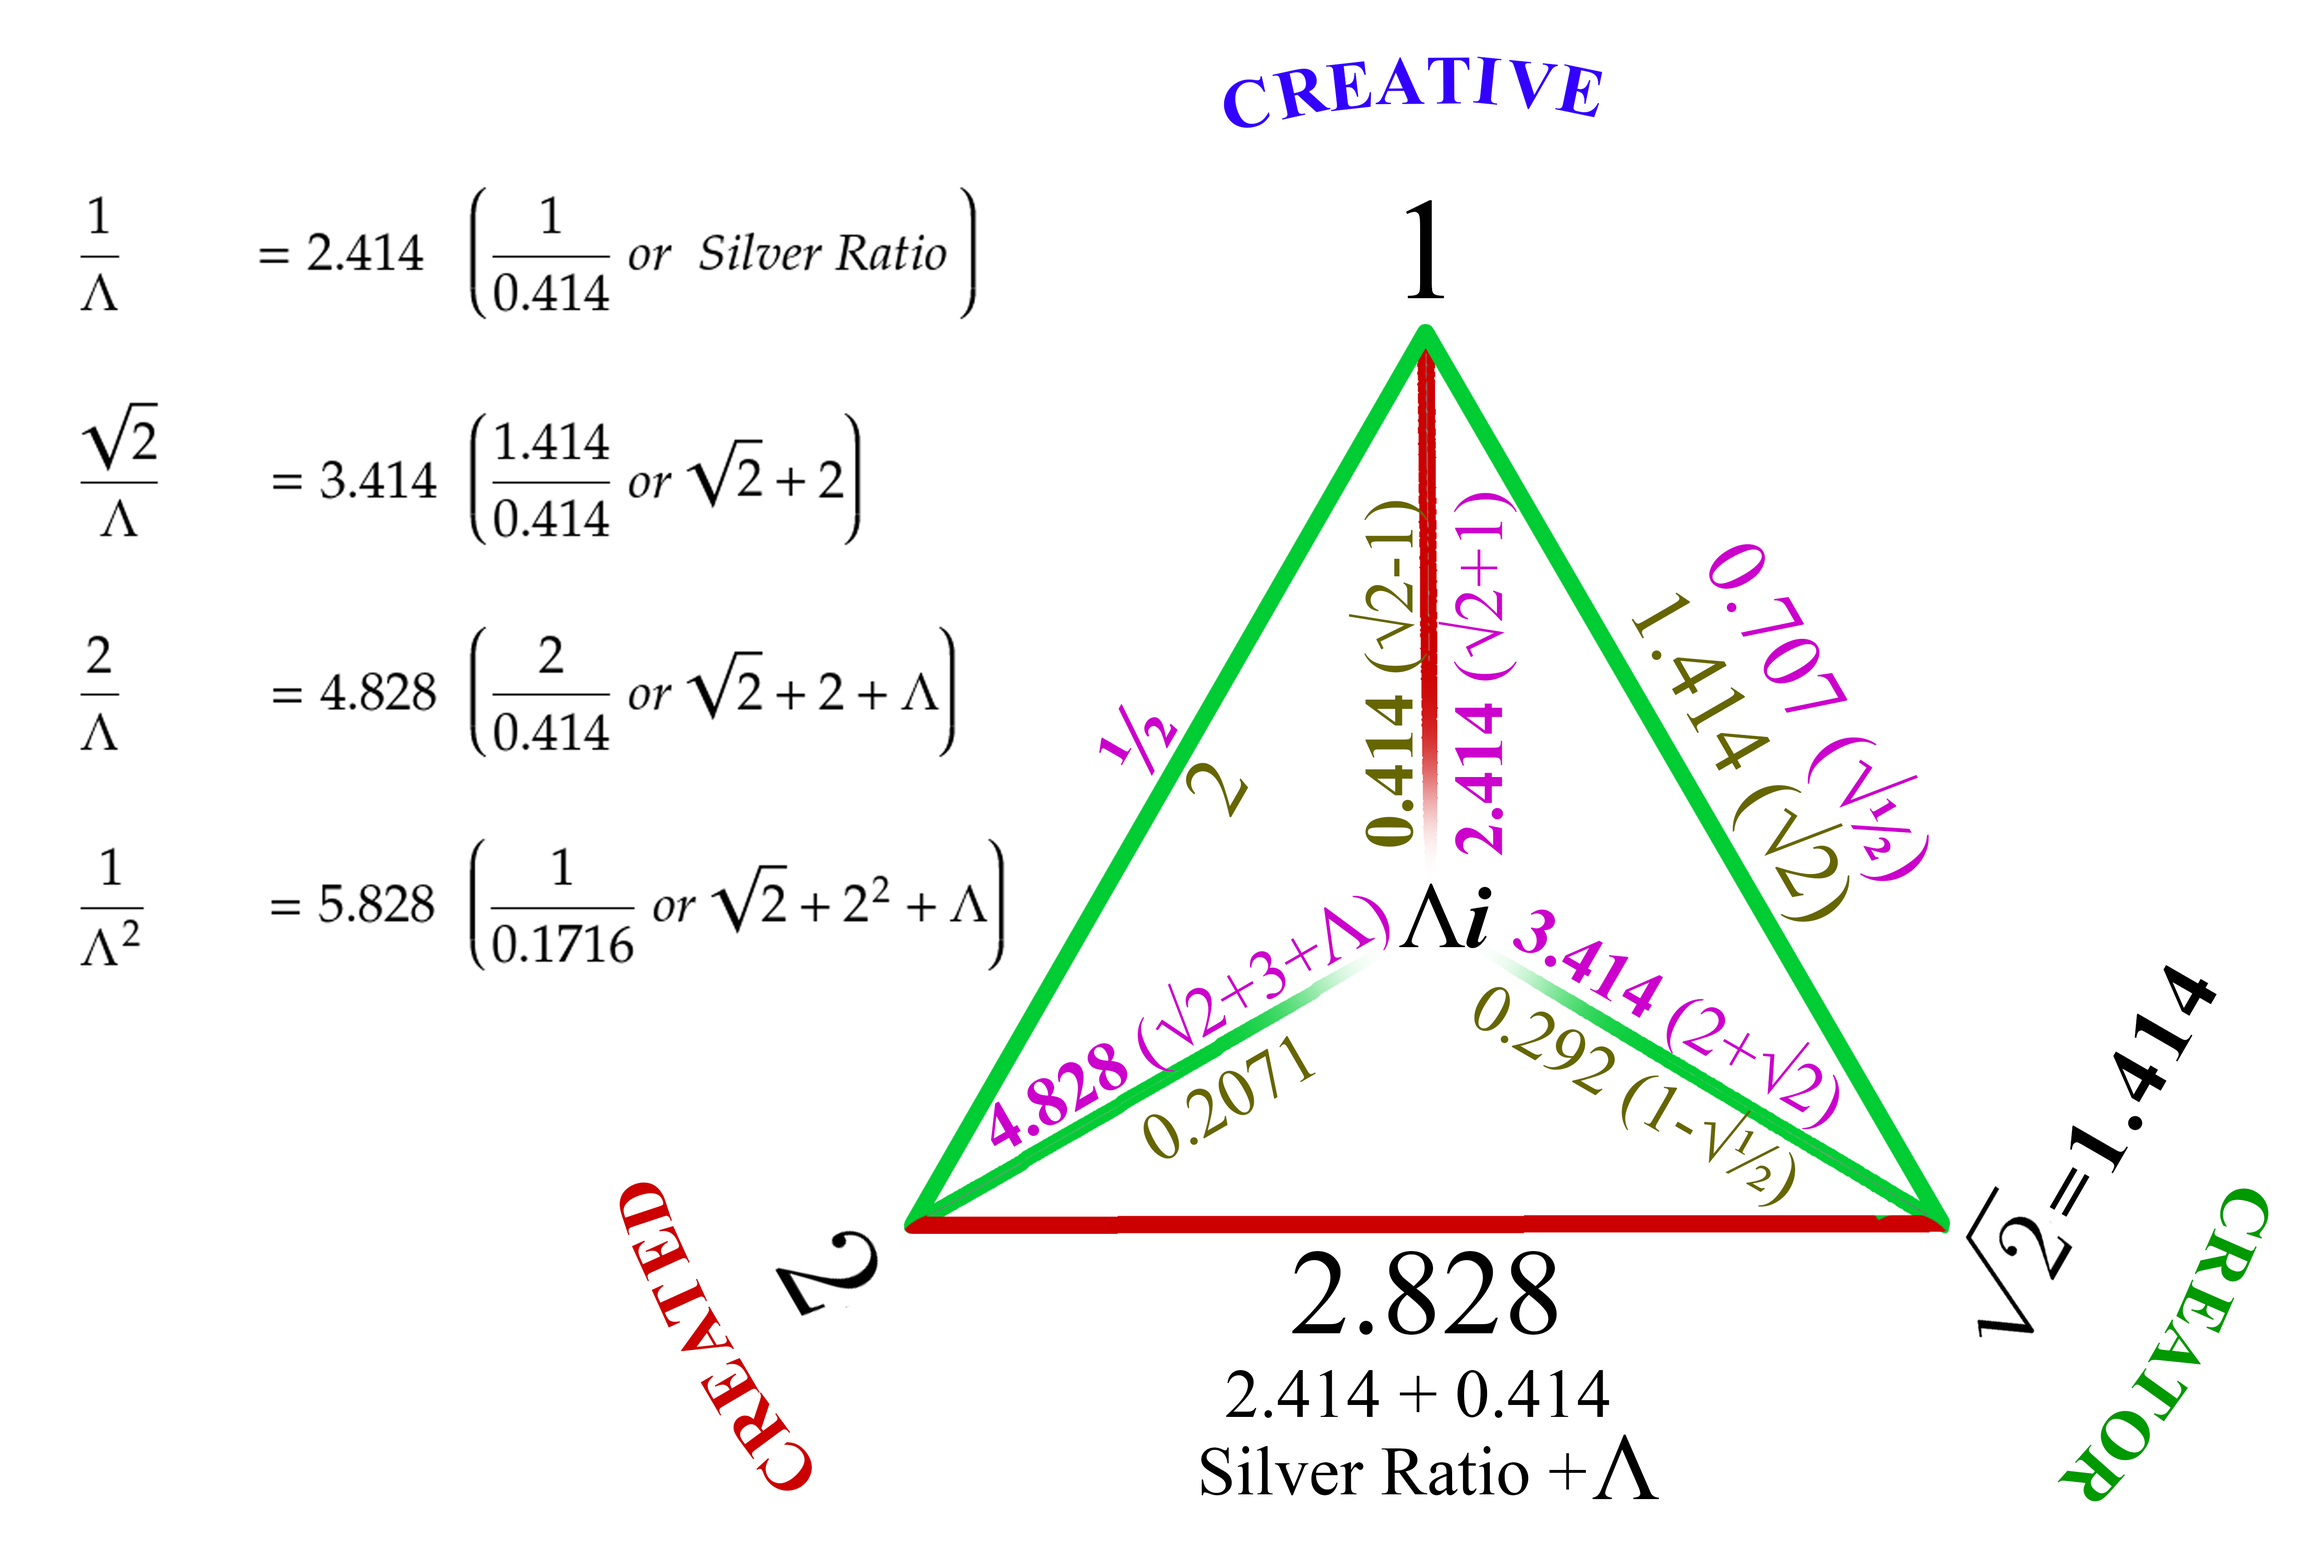
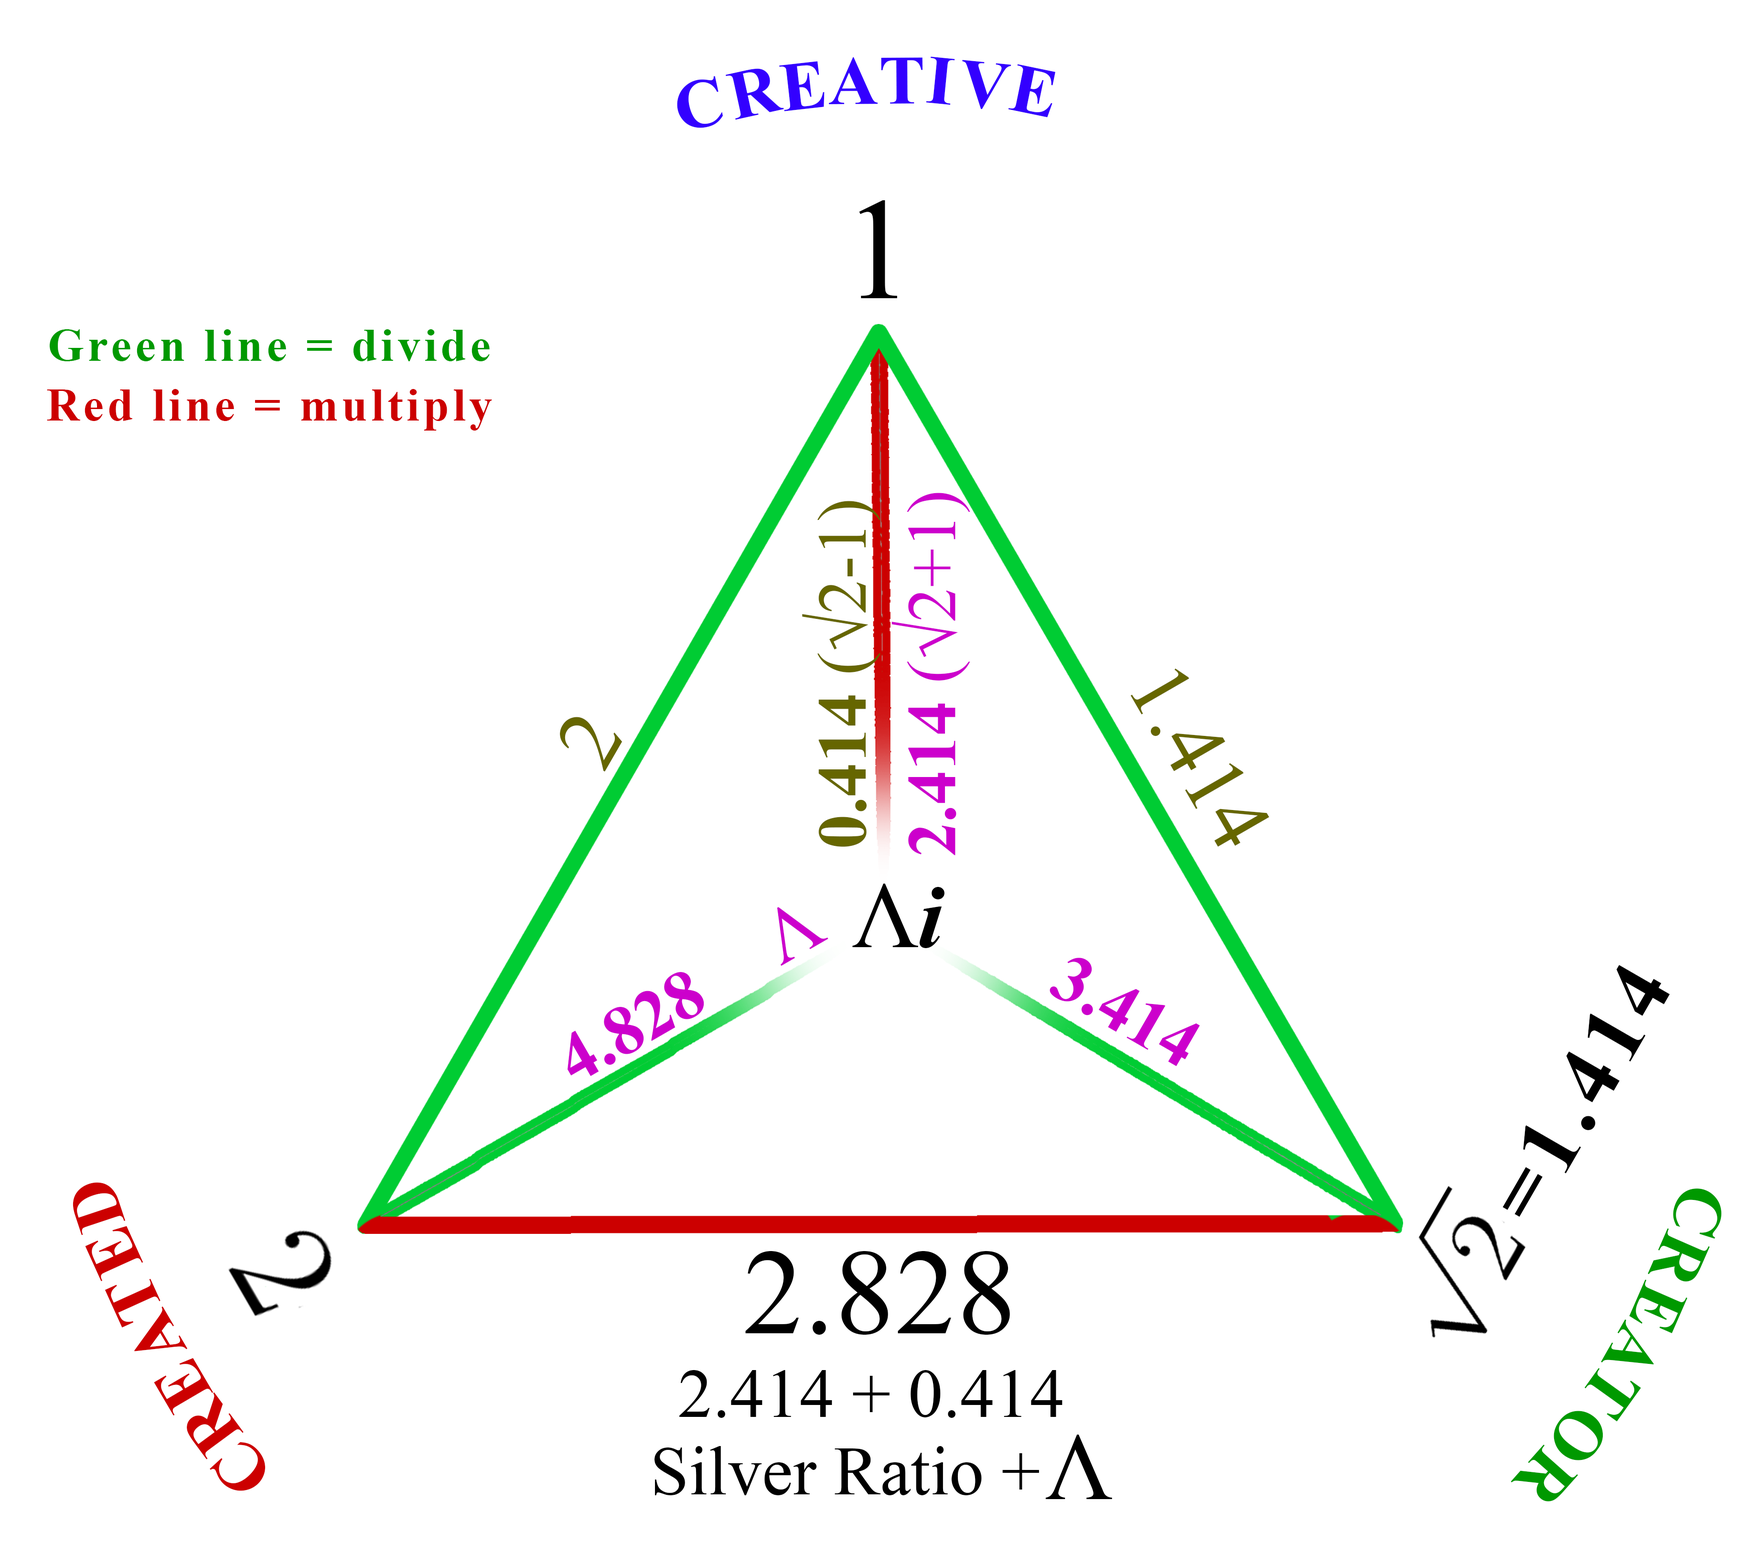
3.6.87 formula 2D map in tholonic math

diff --git a/docs/_layouts/default.html b/docs/_layouts/default.html
@@ -36,7 +36,7 @@
           <li><a target="_blank" href="https://mega.nz/#F!NiBwjQiA!VYOo9TlGW9u060-V1LQ0_w">Download <strong>ePub</strong></a></li>
           <li><a target="_blank" href="https://mega.nz/#F!NiBwjQiA!VYOo9TlGW9u060-V1LQ0_w">Download <strong>HTML</strong></a></li>
         </ul>
-              current version: Thu 26 Nov 2020 06:10:28 PM -03 v3.6.83
+              current version: Fri 27 Nov 2020 06:51:20 PM -03 v3.6.87
 
 <!--
         ZIP and TAR downloads include 20+ megs of webpages, scripts, images and other material. 

diff --git a/Styles/common_book_dev.css.less b/Styles/common_book_dev.css.less
@@ -38,7 +38,7 @@
     @page {
         border:@proof-borders;
 /*        @top-left {
-            content: "THOLONIA 3.6.83";
+            content: "THOLONIA 3.6.87";
 
             text-align:center;
             font-family: serif;

diff --git a/Styles/common_book_prod.css.less b/Styles/common_book_prod.css.less
@@ -44,7 +44,7 @@
     @page {
         border:@proof-borders;
 /*        @top-left {
-            content: "THOLONIA 3.6.83";
+            content: "THOLONIA 3.6.87";
 
             text-align:center;
             font-family: serif;

diff --git a/code/pi/THOCALC.py b/code/pi/THOCALC.py
@@ -1,0 +1,48 @@
+import math
+
+# N=1
+# D=math.sqrt(2)
+# C=2
+
+N=6
+D=2
+C=3
+
+print(f"Tri 0:")
+CD=C*D
+CN=D+(C*N)
+ND=(D+N)*C
+
+print(f"\tCD = {CD}")
+print(f"\tCN = {CN}")
+print(f"\tND = {ND}")
+
+
+print(f"Tri 1:")
+CD=C*(D+N)
+CN=D-(C-N)
+ND=N*C
+
+print(f"\tCD = {CD}")
+print(f"\tCN = {CN}")
+print(f"\tND = {ND}")
+
+print(f"Tri 2:")
+CD=D+(N*C)
+CN=N*D
+ND=D+(N-C)
+
+print(f"\tCD = {CD}")
+print(f"\tCN = {CN}")
+print(f"\tND = {ND}")
+
+print(f"Tri 3:")
+CD=C*D
+CN=N*C
+ND=N*D
+
+print(f"\tCD = {CD}")
+print(f"\tCN = {CN}")
+print(f"\tND = {ND}")
+
+

diff --git a/Latest/THOLONIA_THE_BOOK.md b/Latest/THOLONIA_THE_BOOK.md
@@ -9,11 +9,11 @@ ISBN-13: 978-1703984903
 rights: 'Copyright ©2020 Duncan Stroud CC BY-NC-SA 4.0'
 rights-desc: 'This book is an open sourced book.  This means that anyone can contribute changes or updates.  Instructions and more information at <https://tholonia.github.io/the-book> (or contact the author at duncan.stroud@gmail.com).  This book and its on-line version are distributed under the terms of the Creative Commons Attribution-Noncommercial-ShareAlike 4.0 International (CC BY-NC-SA 4.0) license, with the additional proviso that the right to publish it on paper for sale or other for-profit use is reserved to Duncan Stroud and authorized agents thereof.  A reference copy of this license may be found at <https://creativecommons.org/licenses/by-nc-sa/4.0/>.  The above terms include the following: Attribution - you must give appropriate credit, provide a link to the license, and indicate if changes were made.  You may do so in any reasonable manner, but not in any way that suggests the licensor endorses you or your use.  Noncommercial - You may not use the material for commercial purposes.  Share Alike - If you remix, transform, or build upon the material, you must distribute your contributions under the same license as the original.  No additional restrictions - you may not apply legal terms or technological measures that legally restrict others from doing anything the license permits.  Notices - You do not have to comply with the license for elements of the material in the public domain or where your use is permitted by an applicable exception or limitation.  No warranties are given.  The license may not give you all of the permissions necessary for your intended use.  For example, other rights such as publicity, privacy, or moral rights may limit how you use the material.'
 
-status: 'Updated: Wed 25 Nov 2020 06:28:18 PM -03 v3.6.79'
+status: 'Updated: Thu 26 Nov 2020 07:12:00 PM -03 v3.6.84'
 publisher: 'Welkin Wall Publishing'
 toc: true
 toc-title: 'Table of Contents'
-version:  3.6.79
+version:  3.6.84
 lang: en-US
 
 coverpage: true
@@ -26,7 +26,7 @@ logo_image: '![logo](../Images/titlepage.png)'
 # THE FOLLOWING ARE NOT USED
 
 titlegraphic: /home/jw/books/tholonia/Images/titlepage.png
-pagetitle: 'THOLONIA 3.6.79'
+pagetitle: 'THOLONIA 3.6.84'
 ---
 <div style='page-break-after: always; break-after: always;'></div>
 <img src="../Images/titlepage.png" style="width:100%"/>
@@ -4020,6 +4020,10 @@ We could also then look for the qualities of *creativity* within the original *s
 
 <center><img src="../Images/lambda-tri-1.png" style="width:100%"/></center>
 
+Here is the 2D map for this above image to make the relationships more obvious, for example, how the lower-left trigram has the values &Lambda;, +1, +2, +3; how lower left and lower right are naturally inverted, and when combined, equals the baseline of the top trigram which also has the values of *Silver Ratio* +&Lambda;, +1, &times;2, or how the central trigram is <img src="/home/jw/books/tholonia/Images/math/324.svg" style="vertical-align: middle;height:10pt;"/>&times;1,   <img src="/home/jw/books/tholonia/Images/math/324.svg" style="vertical-align: middle;height:10pt;"/>&times;2,  <img src="/home/jw/books/tholonia/Images/math/324.svg" style="vertical-align: middle;height:10pt;"/>&times;<img src="/home/jw/books/tholonia/Images/math/324.svg" style="vertical-align: middle;height:10pt;"/>, which naturally match the 3 corner values.
+
+<center><img src="../Images/tt-1.png" style="width:100%"/></center>
+
 The arrangement of these values on the tetrahedron do not conform to Newton’s 2^nd^, however, they seem to have a similar pattern, because if we apply the formulas of Ohm’s Law to these values, we get some very interesting values, all of which are the result of the numbers 1 and 2 only, and in one case (<img src="/home/jw/books/tholonia/Images/math/383.svg" style="vertical-align: middle;height:8pt;"/>) we see how it relates to &pi;: 
 
 <img src="/home/jw/books/tholonia/Images/math/382.svg" style="vertical-align: middle;height:24pt;"/>
@@ -4756,7 +4760,9 @@ def iteration(N,h,s,p):
 iteration(1,2,3,5) # <= first four values of the fibonacci sequence 
 ```
 
-We can also calculate the value for Phi (φ, 1.618) and the Fibonacci sequence using a similar process. There are many, many relationships, patterns, values and functions in this simple trigram, but for many of them it is hard to say which of their products are *data* and which are *information*.
+We can also calculate the value for Phi (φ, 1.618) and the Fibonacci sequence using a similar process, and if we use the values of 2^0^, 2^1^, 2^2^, 2^3^, we get the resulting values of 3.
+
+ There are many, many relationships, patterns, values and functions in this simple trigram, but for many of them it is hard to say which of their products are *data* and which are *information*.
 
 ## Reconstruction
 

diff --git a/chapters/520-C-Tholonic_Math.md b/chapters/520-C-Tholonic_Math.md
@@ -195,13 +195,13 @@ We could also then look for the qualities of *creativity* within the original *s
 
 Here is the 2D map for this above image to make the relationships more obvious, for example, how the lower-left trigram has the values &Lambda;, +1, +2, +3; how lower left and lower right are naturally inverted, and when combined, equals the baseline of the top trigram which also has the values of *Silver Ratio* +&Lambda;, +1, &times;2, or how the central trigram is <img src="/home/jw/books/tholonia/Images/math/324.svg" style="vertical-align: middle;height:10pt;"/>&times;1,   <img src="/home/jw/books/tholonia/Images/math/324.svg" style="vertical-align: middle;height:10pt;"/>&times;2,  <img src="/home/jw/books/tholonia/Images/math/324.svg" style="vertical-align: middle;height:10pt;"/>&times;<img src="/home/jw/books/tholonia/Images/math/324.svg" style="vertical-align: middle;height:10pt;"/>, which naturally match the 3 corner values.
 
-<center><img src="../Images/tt-1.png" style="width:100%"/></center>
+<center><img src="../Images/tt-up-dn.png" style="width:100%"/></center>
 
 The arrangement of these values on the tetrahedron do not conform to Newton’s 2^nd^, however, they seem to have a similar pattern, because if we apply the formulas of Ohm’s Law to these values, we get some very interesting values, all of which are the result of the numbers 1 and 2 only, and in one case (<img src="/home/jw/books/tholonia/Images/math/383.svg" style="vertical-align: middle;height:8pt;"/>) we see how it relates to &pi;: 
 
 <img src="/home/jw/books/tholonia/Images/math/382.svg" style="vertical-align: middle;height:24pt;"/>
 
-Additionally, if we multiply all the values of each type (the equivalent to *V*, *I*, *R* and *P*), we get the a total value for each group where *R=1*/8, *P=8*, *I=2.230*, and *V=6.309*.  With these values, the formula for *volts* produces <img src="/home/jw/books/tholonia/Images/math/307.svg" style="vertical-align: middle;height:14pt;"/>=1, and the formula for *resistance* produces <img src="/home/jw/books/tholonia/Images/math/384.svg" style="vertical-align: middle;height:14pt;"/>= 2.828.  These two values represent the N-source (1), and the N-child’s spectrum (2.828), so, clearly, there is a order that is similar, but not exactly the same, as Newton's 2nd.
+Additionally, if we multiply all the values of each type (the equivalent to *V*, *I*, *R* and *P*), we get the a total value for each group where *R=1*/8, *P=8*, *I=2.230*, and *V=6.309*.  With these values, the formula for *volts* produces <img src="/home/jw/books/tholonia/Images/math/307.svg" style="vertical-align: middle;height:14pt;"/>=1, and the formula for *resistance* produces <img src="/home/jw/books/tholonia/Images/math/384.svg" style="vertical-align: middle;height:14pt;"/>= 2.828.  These two values represent the N-source (1), and the N-child’s spectrum (2.828), so, clearly, there is an order, as can be seen in the upper-right image that shows the formulas, but not exactly the same as Newton's 2nd.  For example, the value for that vector which is the spectrum of instantiation between D and C has a value of the *Silver Ratio* (2.414)+*procreation Value* (0.414), but if we replace the values with the *Newtonian* values of 6, 2, and 3, that same vector has the value of 6, and as we pointed out, 6 is the value of the initial creation, given it must be the value of the N-state.  In once case, the value is arrived at by adding *Silver Ratio+Creation value*, and in the other, it is arrived at by multiplying a *duality* (2) by the *creation value* of 3, if we accept “from 3 come all things”.  *Qualitatively*, these are the same expressions with two different contexts and scopes.
 
 This value of **Λ** (lambda, 0.414) *might* be a good example of a tholonic *qualitative* value in that it was derived by the qualitative “formula” of *creative = created - creator*.   As we would expect, this number appears in nature, specifically, it is the ratio of the radius of a sphere that can fit in the empty space of a tetrahedron (*tetrahedral void*) created by 4 spheres.  This may sound very obscure, but it is quite critical in the way atoms pack themselves together.
 

diff --git a/chapters/000-Intro.md b/chapters/000-Intro.md
@@ -9,11 +9,11 @@ ISBN-13: 978-1703984903
 rights: 'Copyright ©2020 Duncan Stroud CC BY-NC-SA 4.0'
 rights-desc: 'This book is an open sourced book.  This means that anyone can contribute changes or updates.  Instructions and more information at <https://tholonia.github.io/the-book> (or contact the author at duncan.stroud@gmail.com).  This book and its on-line version are distributed under the terms of the Creative Commons Attribution-Noncommercial-ShareAlike 4.0 International (CC BY-NC-SA 4.0) license, with the additional proviso that the right to publish it on paper for sale or other for-profit use is reserved to Duncan Stroud and authorized agents thereof.  A reference copy of this license may be found at <https://creativecommons.org/licenses/by-nc-sa/4.0/>.  The above terms include the following: Attribution - you must give appropriate credit, provide a link to the license, and indicate if changes were made.  You may do so in any reasonable manner, but not in any way that suggests the licensor endorses you or your use.  Noncommercial - You may not use the material for commercial purposes.  Share Alike - If you remix, transform, or build upon the material, you must distribute your contributions under the same license as the original.  No additional restrictions - you may not apply legal terms or technological measures that legally restrict others from doing anything the license permits.  Notices - You do not have to comply with the license for elements of the material in the public domain or where your use is permitted by an applicable exception or limitation.  No warranties are given.  The license may not give you all of the permissions necessary for your intended use.  For example, other rights such as publicity, privacy, or moral rights may limit how you use the material.'
 
-status: 'Updated: Thu 26 Nov 2020 06:10:28 PM -03 v3.6.83'
+status: 'Updated: Fri 27 Nov 2020 06:51:20 PM -03 v3.6.87'
 publisher: 'Welkin Wall Publishing'
 toc: true
 toc-title: 'Table of Contents'
-version:  3.6.83
+version:  3.6.87
 lang: en-US
 
 coverpage: true
@@ -26,7 +26,7 @@ logo_image: '![logo](../Images/titlepage.png)'
 # THE FOLLOWING ARE NOT USED
 
 titlegraphic: /home/jw/books/tholonia/Images/titlepage.png
-pagetitle: 'THOLONIA 3.6.83'
+pagetitle: 'THOLONIA 3.6.87'
 ---
 <div style='page-break-after: always; break-after: always;'></div>
 <img src="../Images/titlepage.png" style="width:100%"/>

diff --git a/README.md b/README.md
@@ -1,7 +1,7 @@
 
 see <https://tholonia.github.io/the-book/>
 
-Version {!Thu 26 Nov 2020 06:10:28 PM -03 v3.6.83}
+Version {!Fri 27 Nov 2020 06:51:20 PM -03 v3.6.87}
 
 Tholonia: The Existential Mechanics of Awareness
 Copyright © 2020 Duncan Stroud
